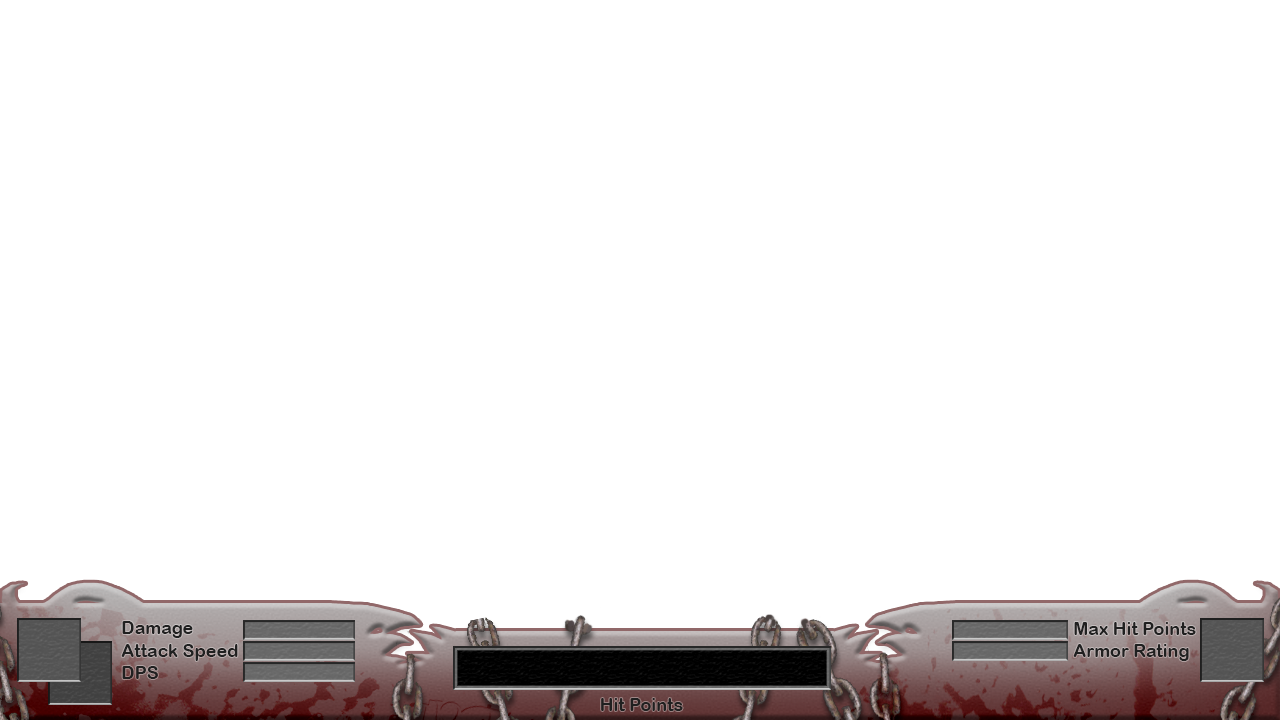
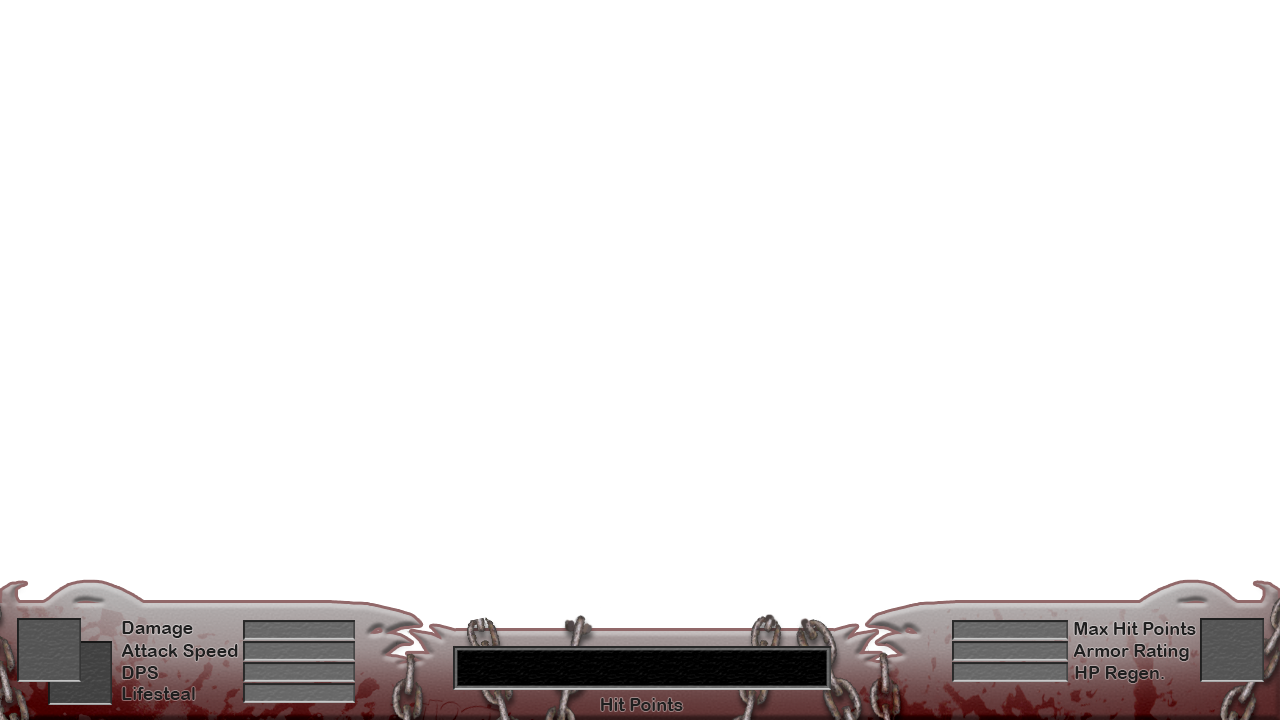
- Menu now show buttons according to the game's state - added images for "resume" button

Changed region(s): [[0.7188, 0.9167, 0.9062, 0.9472], [0.1875, 0.9472, 0.2812, 0.9778], [0.0938, 0.9472, 0.1562, 0.9778]]

diff --git a/src/example/Menu.java b/src/example/Menu.java
@@ -19,6 +19,8 @@ public class Menu extends BasicGameState {
 	private Image menuNewGameButton1 = null;
 	private Image menuLoadGameButton0 = null;
 	private Image menuLoadGameButton1 = null;
+	private Image menuResumeButton0 = null;
+	private Image menuResumeButton1 = null;
 	private Image menuExitButton0 = null;
 	private Image menuExitButton1 = null;
 	
@@ -37,7 +39,9 @@ public class Menu extends BasicGameState {
 		menuNewGameButton0 = new Image("data/menuNewGameButton0.png");	
 		menuNewGameButton1 = new Image("data/menuNewGameButton1.png");
 		menuLoadGameButton0 = new Image("data/menuLoadGameButton0.png");	
-		menuLoadGameButton1 = new Image("data/menuLoadGameButton1.png");	
+		menuLoadGameButton1 = new Image("data/menuLoadGameButton1.png");
+		menuResumeButton0 = new Image("data/menuResumeButton0.png");	
+		menuResumeButton1 = new Image("data/menuResumeButton1.png");
 		menuExitButton0 = new Image("data/menuExitButton0.png");	
 		menuExitButton1 = new Image("data/menuExitButton1.png");	
 		menuBg = new Image("data/menuBg.png");
@@ -64,7 +68,7 @@ public class Menu extends BasicGameState {
 			leftMousePressed = false;
 		}
 		
-		//Clicking on "new game" button
+		//Clicking on first menu button (can be New Game or Resume depending on game state)
 		if(		gc.getInput().isMouseButtonDown(Input.MOUSE_LEFT_BUTTON) && leftMousePressed == false &&
 				menuMousePos.getX() > Window.WIDTH/2 - 200 &&
 				menuMousePos.getX() < Window.WIDTH/2 + 200  &&
@@ -77,14 +81,16 @@ public class Menu extends BasicGameState {
 			//if(GameState.mainTheme.playing() == false){
 			//	GameState.mainTheme.loop();
 			//}
+			
 			if(playerDead == true){
 				resetGame = true;
+				playerDead = false;
 			}
 			sbg.enterState(1);
 			//gc.reinit();
 		}
 		
-		//Clicking on "load game" button
+		//Clicking on seconds menu button (can be Exit or new game depending on game state)
 		if(		gc.getInput().isMouseButtonDown(Input.MOUSE_LEFT_BUTTON) && leftMousePressed == false &&
 				menuMousePos.getX() > Window.WIDTH/2 - 200 &&
 				menuMousePos.getX() < Window.WIDTH/2 + 200  &&
@@ -92,10 +98,19 @@ public class Menu extends BasicGameState {
 				menuMousePos.getY() < Window.HEIGHT/2 + 170 ){
 			
 			leftMousePressed = true;
-			//INSERT METHOD TO LOAD A SAVE GAME!
+			
+			if(playerDead == false){
+				resetGame = true;
+				playerDead = false;
+				sbg.enterState(1);
+			}
+			
+			if(playerDead == true){
+				gc.exit();
+				}
 		}
 		
-		//Clicking on "exit" button
+		//Clicking on third menu button (can be Exit depending on game state)
 		if(		gc.getInput().isMouseButtonDown(Input.MOUSE_LEFT_BUTTON) && leftMousePressed == false &&
 				menuMousePos.getX() > Window.WIDTH/2 - 200 &&
 				menuMousePos.getX() < Window.WIDTH/2 + 200  &&
@@ -103,7 +118,10 @@ public class Menu extends BasicGameState {
 				menuMousePos.getY() < Window.HEIGHT/2 + 270 ){
 			
 			leftMousePressed = true;
+			
+			if(playerDead == false){
 			gc.exit();
+			}
 		}
 		
 		if(gc.getInput().isMouseButtonDown(Input.MOUSE_LEFT_BUTTON)){
@@ -124,15 +142,26 @@ public class Menu extends BasicGameState {
 		menuBg.draw(0,0);
 		
 		//Draw "new game" button
+		
 		if(		menuMousePos.getX() > Window.WIDTH/2 - 200 &&
 				menuMousePos.getX() < Window.WIDTH/2 + 200  &&
 				menuMousePos.getY() > Window.HEIGHT/2 &&
 				menuMousePos.getY() < Window.HEIGHT/2 + 70 ){
 			
-			menuNewGameButton1.draw(Window.WIDTH/2 - 219, Window.HEIGHT/2 - 19);
+			if(playerDead == true){
+				menuNewGameButton1.draw(Window.WIDTH/2 - 219, Window.HEIGHT/2 - 19);
+			}
+			else{
+				menuResumeButton1.draw(Window.WIDTH/2 - 220, Window.HEIGHT/2 - 20);
+			}
 		}
 		else{
-		menuNewGameButton0.draw(Window.WIDTH/2 - 202, Window.HEIGHT/2 - 2);
+			if(playerDead == true){
+				menuNewGameButton0.draw(Window.WIDTH/2 - 202, Window.HEIGHT/2 - 2);
+			}
+			else{
+				menuResumeButton0.draw(Window.WIDTH/2 - 202, Window.HEIGHT/2 - 2);
+			}
 		}
 	
 		//Draw "load game" button
@@ -141,25 +170,38 @@ public class Menu extends BasicGameState {
 				menuMousePos.getY() > Window.HEIGHT/2 + 100 &&
 				menuMousePos.getY() < Window.HEIGHT/2 + 170){
 			
-			menuLoadGameButton1.draw(Window.WIDTH/2 - 219, Window.HEIGHT/2 + 81);
+			if(playerDead == true){
+				menuExitButton1.draw(Window.WIDTH/2 - 219, Window.HEIGHT/2 + 81);
+			}
+			else{
+				menuNewGameButton1.draw(Window.WIDTH/2 - 219, Window.HEIGHT/2 + 81);
+			}
 		}
 		else{
-		menuLoadGameButton0.draw(Window.WIDTH/2 - 202, Window.HEIGHT/2 + 98);
+			if(playerDead == true){
+				menuExitButton0.draw(Window.WIDTH/2 - 202, Window.HEIGHT/2 + 98);
+			}
+			else{
+				menuNewGameButton0.draw(Window.WIDTH/2 - 202, Window.HEIGHT/2 + 98);
+			}
 		}
 		
 		//Draw "Exit" button
-		if(		menuMousePos.getX() > Window.WIDTH/2 - 200 &&
-				menuMousePos.getX() < Window.WIDTH/2 + 200  &&
-				menuMousePos.getY() > Window.HEIGHT/2 + 200 &&
-				menuMousePos.getY() < Window.HEIGHT/2 + 270){
-					
-			menuExitButton1.draw(Window.WIDTH/2 - 219, Window.HEIGHT/2 + 181);
+		if(playerDead == false){
+			if(		menuMousePos.getX() > Window.WIDTH/2 - 200 &&
+					menuMousePos.getX() < Window.WIDTH/2 + 200  &&
+					menuMousePos.getY() > Window.HEIGHT/2 + 200 &&
+					menuMousePos.getY() < Window.HEIGHT/2 + 270){
+			
+				menuExitButton1.draw(Window.WIDTH/2 - 219, Window.HEIGHT/2 + 178);
+		
+			}else{
+		
+				menuExitButton0.draw(Window.WIDTH/2 - 202, Window.HEIGHT/2 + 195);
+	
+			}
 		}
-		else{
-		menuExitButton0.draw(Window.WIDTH/2 - 202, Window.HEIGHT/2 + 198);
-		}	
 	}
-
 
 	public int getID() {
 		return 0;			// The ID of this state

diff --git a/src/example/GameState.java b/src/example/GameState.java
@@ -558,14 +558,14 @@ public class GameState extends BasicGameState {
 									g.setColor(new Color(255,0,0));
 								}
 								g.drawString("Damage: " + (int)lootList.get(i).wepMinDMG +" - "+ (int)lootList.get(i).wepMaxDMG, lootList.get(i).vector.getX()+40 , lootList.get(i).vector.getY()-123);
-								if((lootList.get(i).attackSpeed > player.AttackSpeed)){
+								if((lootList.get(i).attackSpeed > player.playerMeleeAttackSpeed)){
 									g.setColor(new Color(0,255,0));
 								}
 								else{
 									g.setColor(new Color(255,0,0));
 								}
 								g.drawString("Att. Speed: " + df.format(lootList.get(i).attackSpeed), lootList.get(i).vector.getX()+40 , lootList.get(i).vector.getY()-103);
-								if(((lootList.get(i).wepMinDMG + lootList.get(i).wepMaxDMG)/2) * lootList.get(i).attackSpeed > ((player.playerMeleeMinDamage + player.playerMeleeMaxDamage)/2)* player.AttackSpeed){
+								if(((lootList.get(i).wepMinDMG + lootList.get(i).wepMaxDMG)/2) * lootList.get(i).attackSpeed > ((player.playerMeleeMinDamage + player.playerMeleeMaxDamage)/2)* player.playerMeleeAttackSpeed){
 									g.setColor(new Color(0,255,0));
 								}
 								else{
@@ -627,7 +627,7 @@ public class GameState extends BasicGameState {
 									g.setColor(new Color(255,0,0));
 								}
 								g.drawString("Att. Speed: " + df.format(lootList.get(i).attackSpeed), lootList.get(i).vector.getX()+40 , lootList.get(i).vector.getY()-20);
-								if(((lootList.get(i).wepMinDMG + lootList.get(i).wepMaxDMG)/2) * lootList.get(i).attackSpeed > (player.playerRangedMinDamage + player.playerRangedMaxDamage)/2 * player.playerRangedAttackSpeed){
+								if(((lootList.get(i).wepMinDMG + lootList.get(i).wepMaxDMG)/2) * lootList.get(i).attackSpeed > ((player.playerRangedMinDamage + player.playerRangedMaxDamage)/2)* player.playerRangedAttackSpeed){
 									g.setColor(new Color(0,255,0));
 								}
 								else{
@@ -661,14 +661,14 @@ public class GameState extends BasicGameState {
 									g.setColor(new Color(255,0,0));
 								}
 								g.drawString("Damage: " + (int)lootList.get(i).wepMinDMG +" - "+ (int)lootList.get(i).wepMaxDMG, lootList.get(i).vector.getX()+40 , lootList.get(i).vector.getY()-40);
-								if((lootList.get(i).attackSpeed > player.AttackSpeed)){
+								if((lootList.get(i).attackSpeed > player.playerMeleeAttackSpeed)){
 									g.setColor(new Color(0,255,0));
 								}
 								else{
 									g.setColor(new Color(255,0,0));
 								}
 								g.drawString("Att. Speed: " + df.format(lootList.get(i).attackSpeed), lootList.get(i).vector.getX()+40 , lootList.get(i).vector.getY()-20);
-								if(((lootList.get(i).wepMinDMG + lootList.get(i).wepMaxDMG)/2) * lootList.get(i).attackSpeed > ((player.playerMeleeMinDamage + player.playerMeleeMaxDamage)/2) * player.AttackSpeed){
+								if(((lootList.get(i).wepMinDMG + lootList.get(i).wepMaxDMG)/2) * lootList.get(i).attackSpeed > ((player.playerMeleeMinDamage + player.playerMeleeMaxDamage)/2) * player.playerMeleeAttackSpeed){
 									g.setColor(new Color(0,255,0));
 								}
 								else{

diff --git a/src/example/Inventory.java b/src/example/Inventory.java
@@ -59,16 +59,19 @@ public class Inventory {
 				g.drawString(df.format(player.playerMeleeMinDamage)+"-"+df.format(player.playerMeleeMaxDamage), xOrigin+250, yOrigin+621);
 				g.drawString(df.format(player.playerMeleeAttackSpeed), xOrigin+250, yOrigin+642);
 				g.drawString(df.format(((player.playerMeleeMinDamage+player.playerMeleeMaxDamage)/2)*player.playerMeleeAttackSpeed), xOrigin+250, yOrigin+663);
+				//g.drawString(df.format(player.meleeLifeSteal), xOrigin+250, yOrigin+684);
 			}
 			else{
 				
 				g.drawString(df.format(player.playerRangedMinDamage)+"-"+df.format(player.playerRangedMaxDamage), xOrigin+250, yOrigin+621);
 				g.drawString(df.format(player.playerRangedAttackSpeed), xOrigin+250, yOrigin+642);
 				g.drawString(df.format(((player.playerRangedMinDamage+player.playerRangedMaxDamage)/2)*player.playerRangedAttackSpeed), xOrigin+250, yOrigin+663);
+				//g.drawString(df.format(player.rangedLifeSteal), xOrigin+250, yOrigin+684);
 			}
 			
 			g.drawString(df.format(player.MaxHitPoints), xOrigin+960, yOrigin+621);
 			g.drawString(df.format(player.Armor), xOrigin+960, yOrigin+642);
+			g.drawString(df.format(player.lifeRegen), xOrigin+960, yOrigin+663);
 		
 			//Draw the items in the bag
 	}
